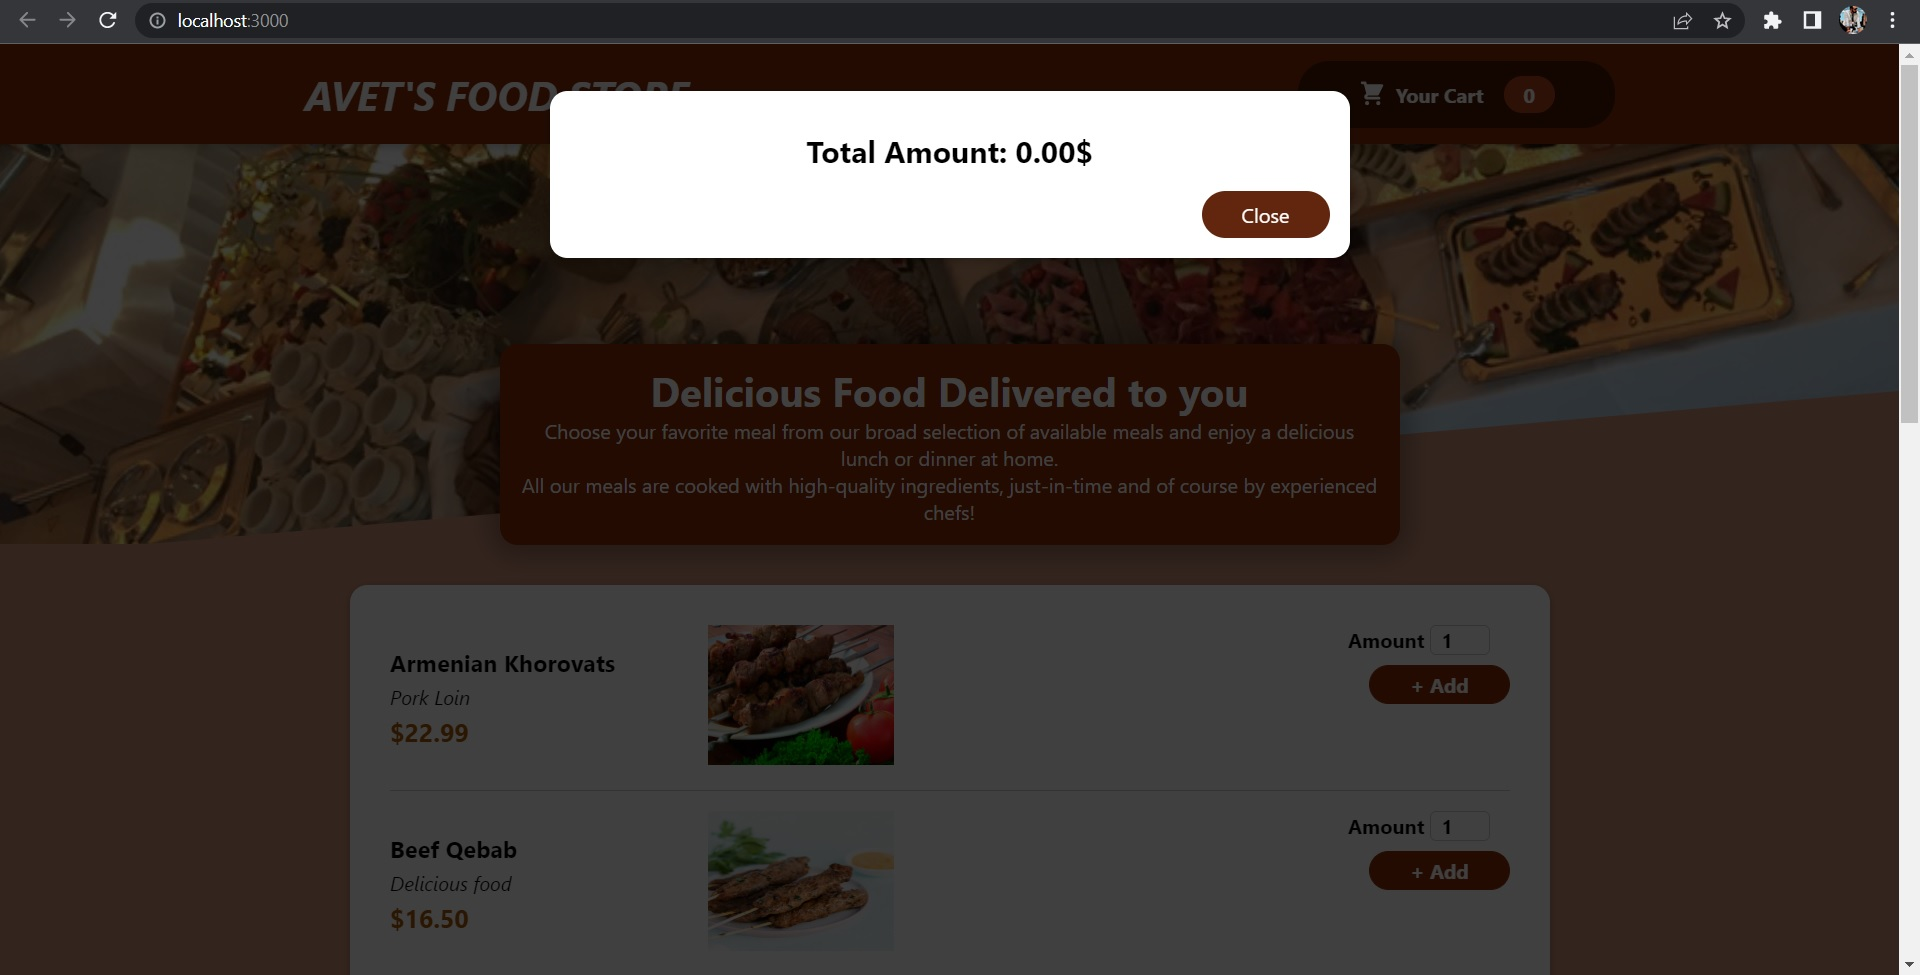
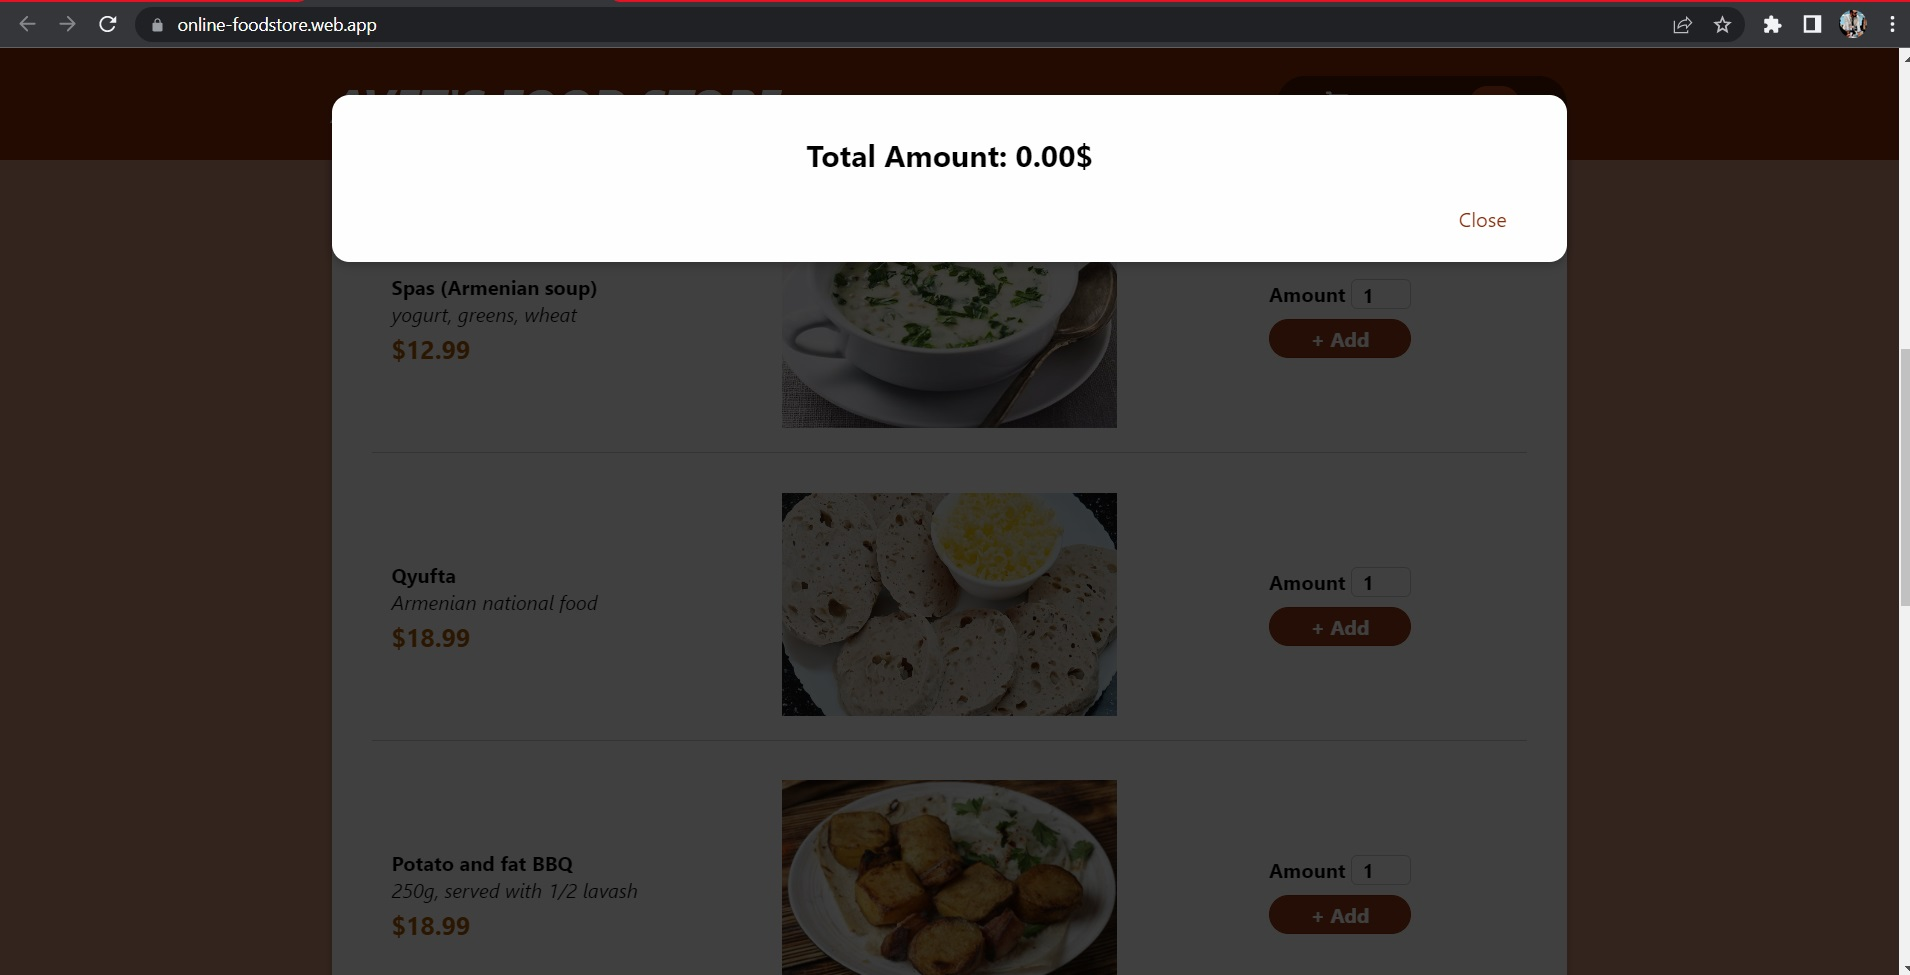
feat: add close button style in confirmation alert

diff --git a/src/Components/Cart/Cart.jsx b/src/Components/Cart/Cart.jsx
@@ -115,7 +115,7 @@ export default function Cart({ hideCartHandler }) {
   const isSubmittedModalContent = (
     <div className="success-order">
       <p>Successfully sent the order ✅ </p>
-      <button className="button" onClick={hideCartHandler}>
+      <button className="cart-button" onClick={hideCartHandler}>
         Close
       </button>
     </div>
